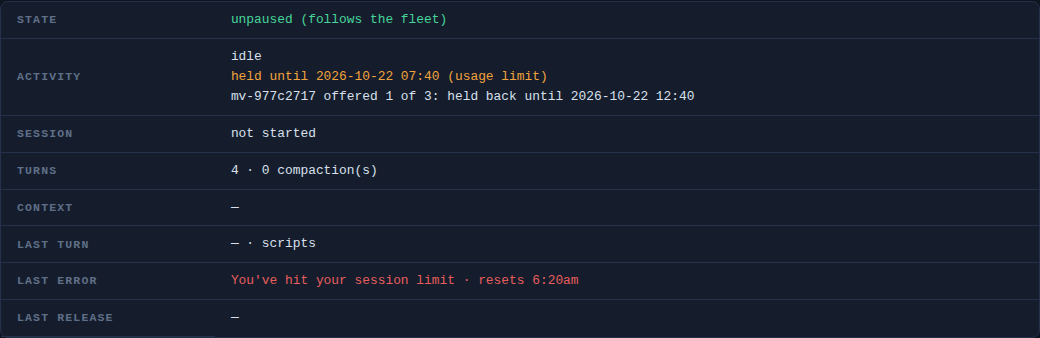
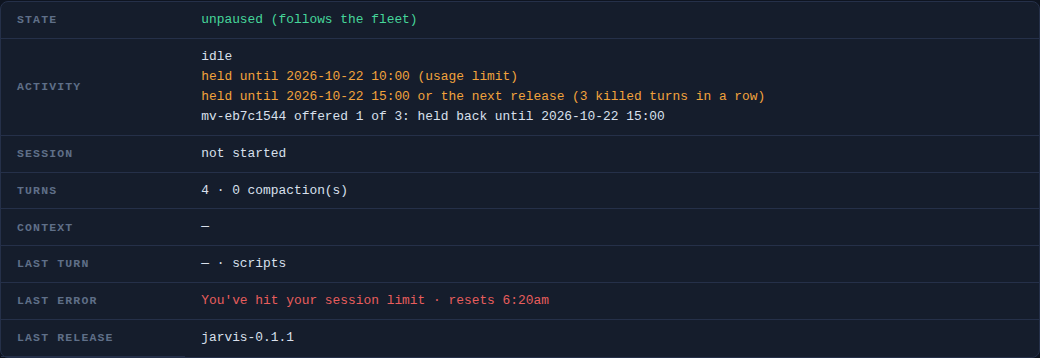
Show the kill hold on the Morpheus dashboard screenshot
Claude-Session: https://claude.ai/code/session_01KBZDJXS1k1y854Xa4eJesx

diff --git a/scripts/screenshot_morpheus.py b/scripts/screenshot_morpheus.py
@@ -43,6 +43,12 @@ def seed() -> None:
                                    "usage_hold_until": time.time() + 3600,
                                    "last_error": "You've hit your session limit · resets 6:20am",
                                    "offers": {waiting["id"]: {"n": 1, "ts": time.time()}}})
+    # And a kill hold on top of it: both are session-wide holds and can stand at once
+    store.set_state(morpheus.RELEASE_KEY, "jarvis-0.1.1")  # the hold lifts when this tag moves
+    morpheus._save_session(store, {**morpheus.session_state(store),
+                                   "kills": morpheus.MAX_KILLS,
+                                   "kill_hold_until": time.time() + morpheus.KILL_HOLD_SECONDS,
+                                   "kill_hold_release": "jarvis-0.1.1"})
     store.close()
 
 
